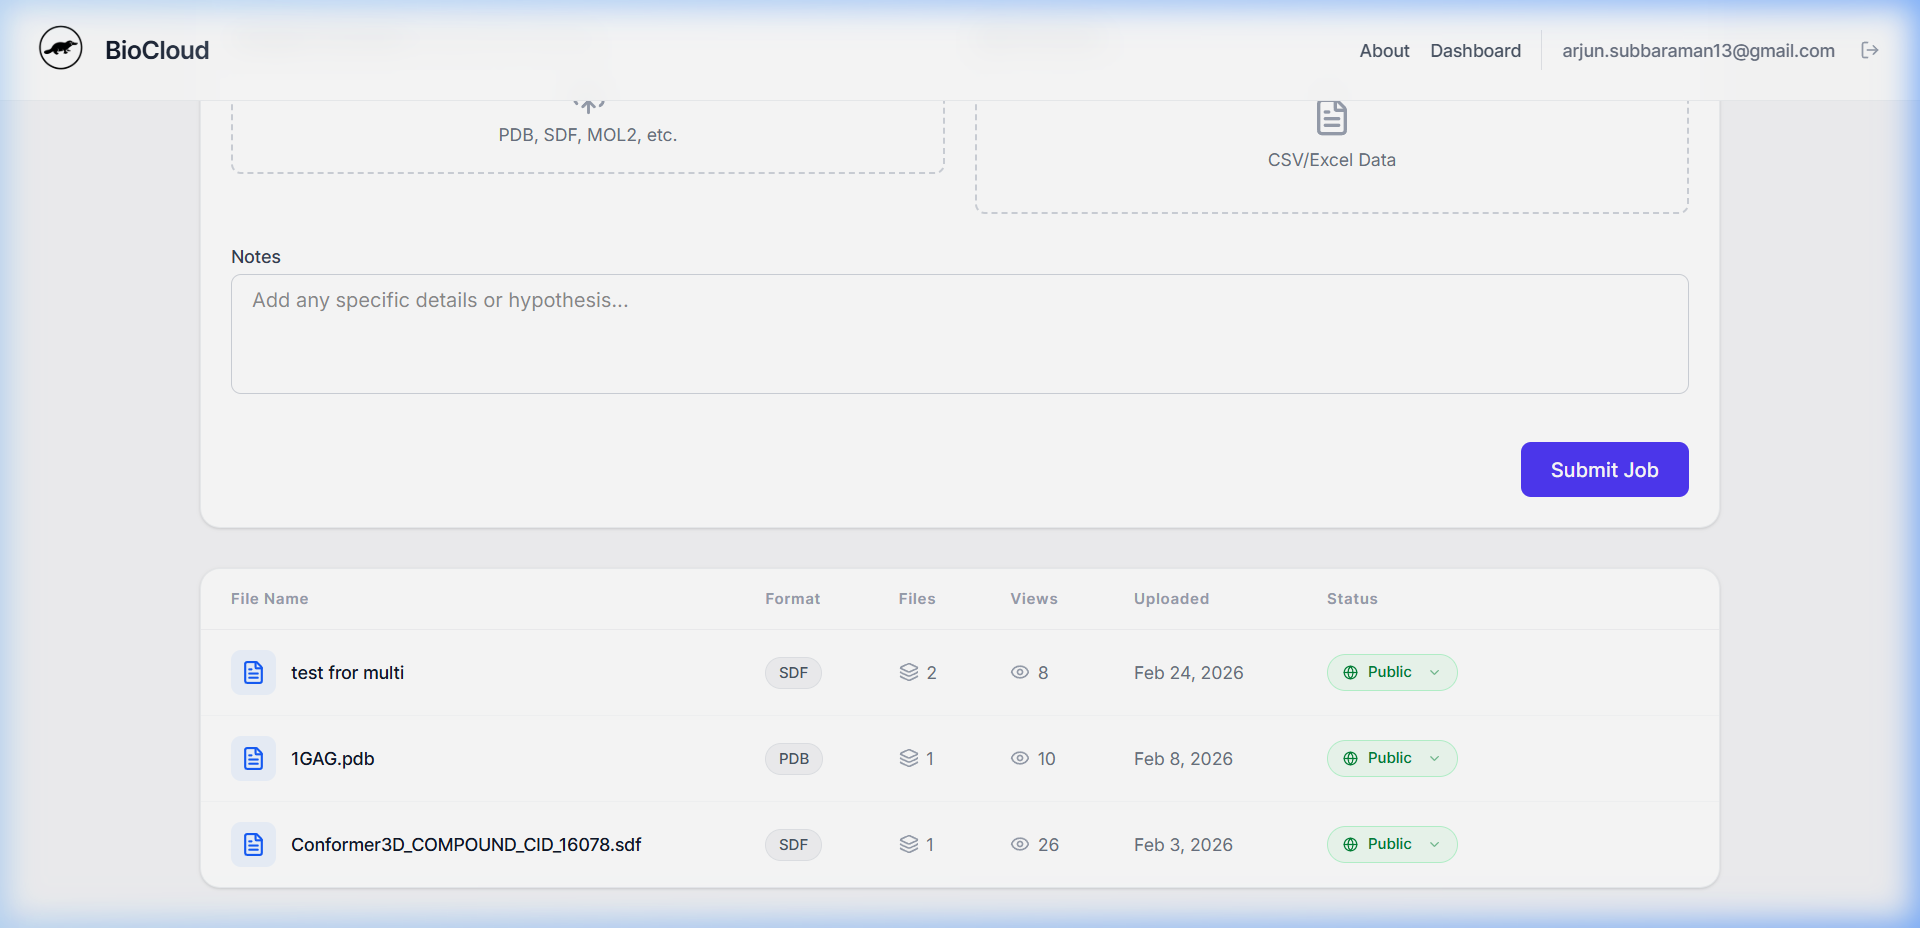
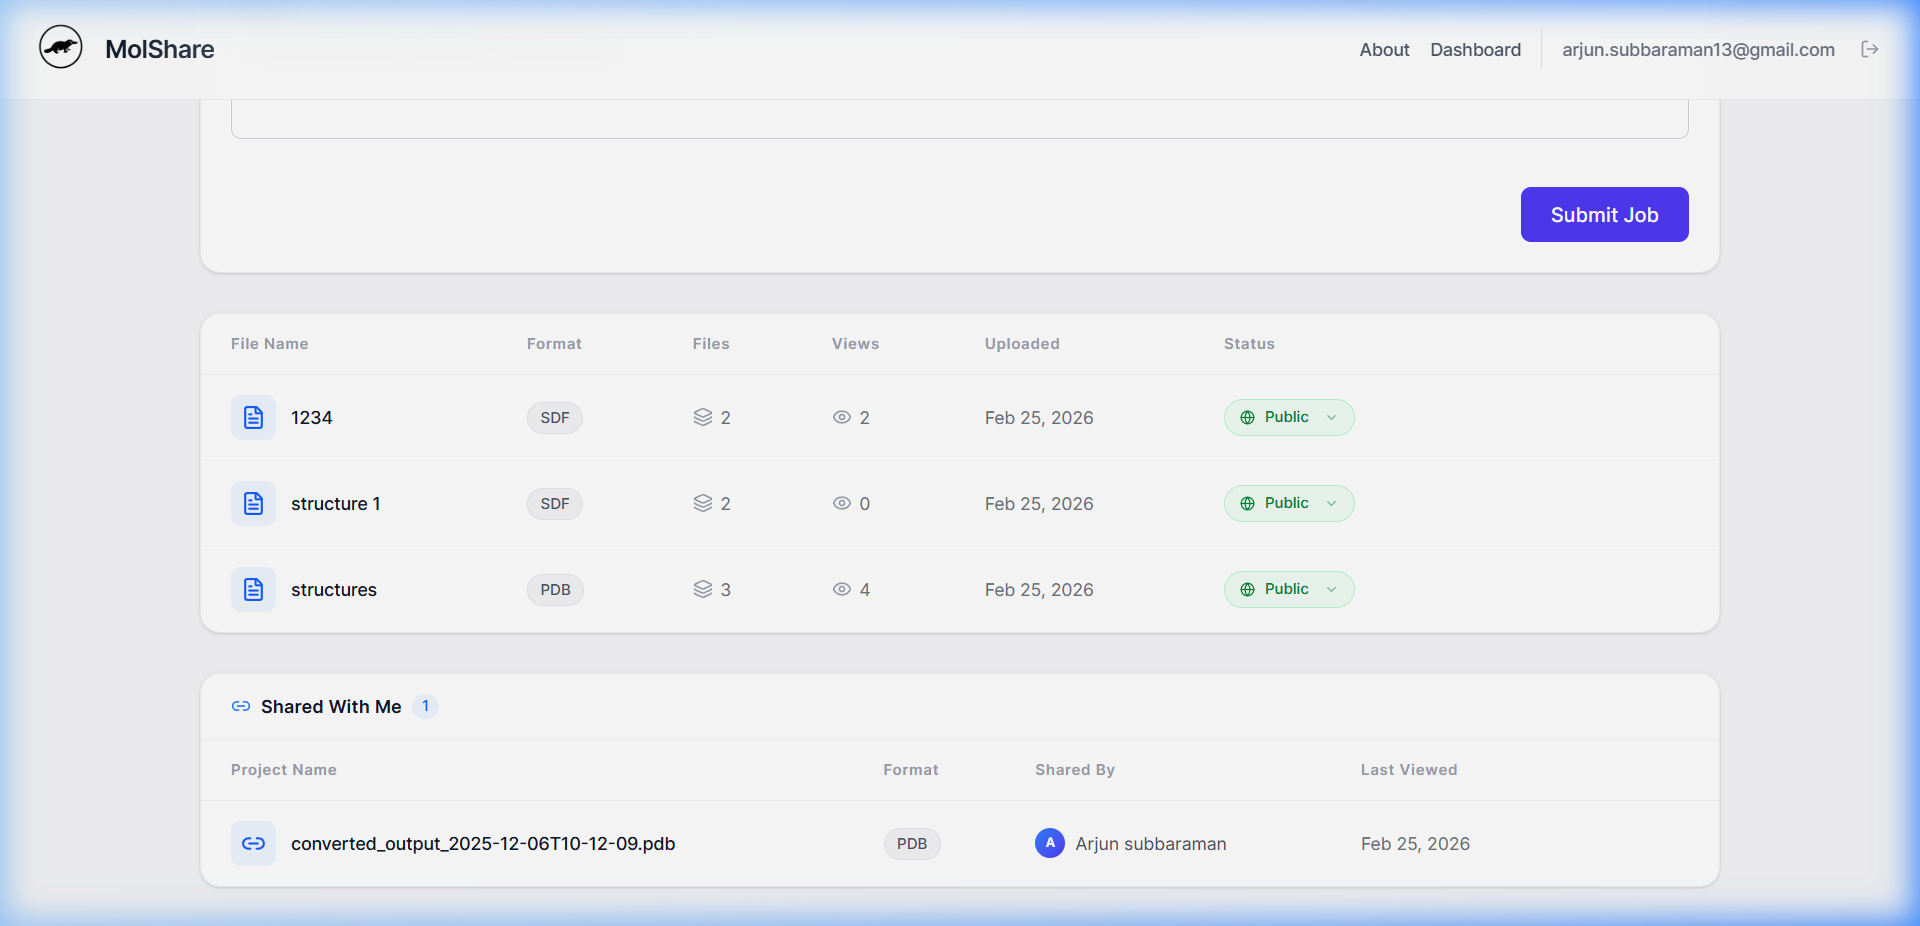
docs: update ER diagram with PROJECT_VIEWS, add RLS text, new dashboard screenshot with Shared With Me

diff --git a/paper/MolShare_Application_Note.md b/paper/MolShare_Application_Note.md
@@ -32,7 +32,7 @@ The client-side application is developed using the Next.js React framework and h
 
 ### 2.2. Backend Data Persistence (Supabase)
 
-File storage and relational data are handled by Supabase. Large coordinate files (.pdb, .cif) and corresponding datasets (.csv) are stored in object storage. A PostgreSQL database is the ledger for the application. Most importantly, when an annotation is created by a user, the database stores the precise Cartesian coordinates (X, Y, Z) of the chosen atom, thus irrevocably associating the user's text note with that particular point in space in the project. Row Level Security (RLS) policies enable the private or safe public sharing of projects through public URLs.
+File storage and relational data are handled by Supabase. Large coordinate files (.pdb, .cif) and corresponding datasets (.csv) are stored in object storage. A PostgreSQL database is the ledger for the application. Most importantly, when an annotation is created by a user, the database stores the precise Cartesian coordinates (X, Y, Z) of the chosen atom, thus irrevocably associating the user's text note with that particular point in space in the project. Row Level Security (RLS) policies enable the private or safe public sharing of projects through public URLs. Strict Row Level Security policies enforce owner-only write privileges, ensuring that while invited collaborators can interactively view the 3D state and read annotations, only the original project owner can append new spatial data. A dedicated 'Shared With Me' dashboard automatically tracks and routes authenticated users to projects they have been invited to view.
 
 ### 2.3. Client-Side Rendering (3Dmol.js)
 
@@ -74,15 +74,17 @@ Artificial intelligence software (Google Gemini, Antigravity) was employed to he
 
 ### Panel B: Entity-Relationship Diagram (Database)
 
-![Figure 1B — Entity-relationship diagram showing the five principal database tables (Users, Projects, Project_Files, Annotations) and their foreign key relationships.](figures/mermaid-drawing%20(1).png)
+![Figure 1B — Entity-relationship diagram showing the six principal database tables (Users, Projects, Project_Files, Annotations, Project_Views) and their foreign key relationships.](figures/mermaid-drawing%20(1).png)
 
 ---
 
 ## Figure 2 — User Interface
 
-### Panel A: Dashboard with Multi-File Upload & Project Table
+### Panel A: Dashboard with Repository & Shared With Me
 
-![Figure 2A — MolShare dashboard showing the multi-file upload form and project repository table with the Files count column.](figures/fig2a_dashboard.png)
+![Figure 2A — MolShare dashboard showing the project repository table with owned projects and the Shared With Me section displaying a collaboratively shared project.](figures/fig2a_dashboard.png)
+
+*The dashboard displays the project repository (top) listing the user's own projects with file counts, view counts, upload dates, and privacy status. Below it, the **Shared With Me** section shows projects that other users have shared with the current user, including the project owner's identity and the date it was last viewed—demonstrating MolShare's real-time collaborative workflow.*
 
 ---
 
